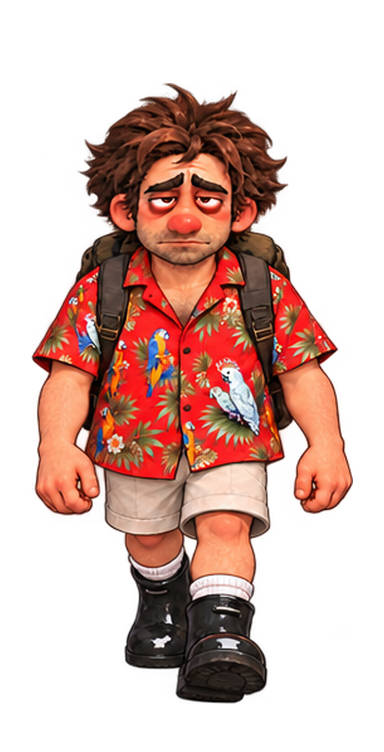
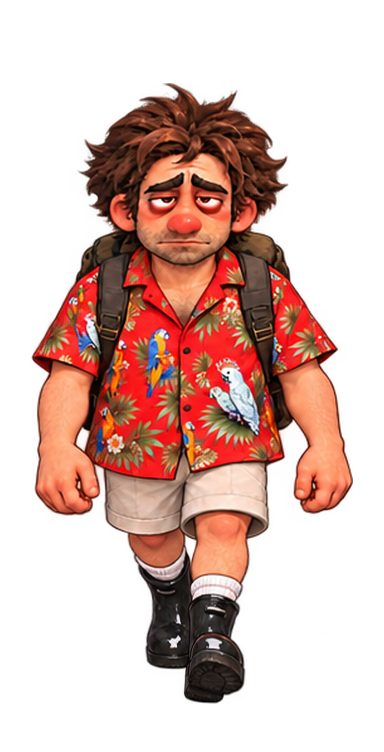
Исправить постановку ног Алкосмена и убрать лишний выбор версии спрайтов

Changed region(s): [[0.3125, 0.6729, 0.7188, 0.9481], [0.25, 0.6729, 0.3125, 0.7035]]

diff --git a/src/main/java/alkosmen/gdx/render/AlkosmenWalkAnimation.java b/src/main/java/alkosmen/gdx/render/AlkosmenWalkAnimation.java
@@ -21,12 +21,7 @@ public final class AlkosmenWalkAnimation implements Disposable {
     private final WalkCycle cycle = new WalkCycle(FRAME_COUNT);
 
     public AlkosmenWalkAnimation() {
-        this(false);
-    }
-
-    /** Use the approved new front-facing walk only for explicit preview scenes. */
-    public AlkosmenWalkAnimation(boolean previewFrontV2) {
-        String[] folders = {"walk_right_v2", previewFrontV2 ? "walk_front" : "walk_front", "walk_back"};
+        String[] folders = {"walk_right_v2", "walk_front", "walk_back"};
         try {
             for (int row = 0; row < folders.length; row++) {
                 for (int column = 0; column < FRAME_COUNT; column++) {

diff --git a/src/main/java/alkosmen/gdx/AlkosmenPlayer.java b/src/main/java/alkosmen/gdx/AlkosmenPlayer.java
@@ -37,15 +37,10 @@ public final class AlkosmenPlayer implements Disposable {
     private CharacterRenderMetrics.Placement placement;
 
     public AlkosmenPlayer(float spawnX, float spawnY) {
-        this(spawnX, spawnY, false);
-    }
-
-    /** Allows the walk test to preview the new front frames without changing other scenes. */
-    public AlkosmenPlayer(float spawnX, float spawnY, boolean previewFrontV2) {
         x = spawnX;
         y = spawnY;
 
-        animation = new AlkosmenWalkAnimation(previewFrontV2);
+        animation = new AlkosmenWalkAnimation();
         updateCollisionBody();
     }
 

diff --git a/src/main/java/alkosmen/gdx/AlkosmenWalkTest.java b/src/main/java/alkosmen/gdx/AlkosmenWalkTest.java
@@ -18,7 +18,7 @@ public final class AlkosmenWalkTest extends ApplicationAdapter {
     public void create() {
         batch = new SpriteBatch();
         camera = new OrthographicCamera();
-        player = new AlkosmenPlayer(Gdx.graphics.getWidth() / 2f, 60f, true);
+        player = new AlkosmenPlayer(Gdx.graphics.getWidth() / 2f, 60f);
         player.setVisibleHeight(TARGET_HEIGHT);
         player.setSpeed(MOVE_SPEED);
         resize(Gdx.graphics.getWidth(), Gdx.graphics.getHeight());
